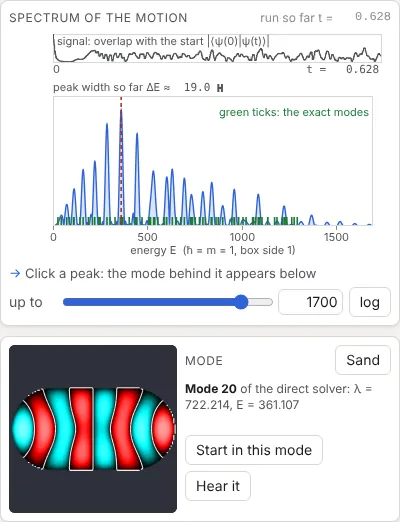
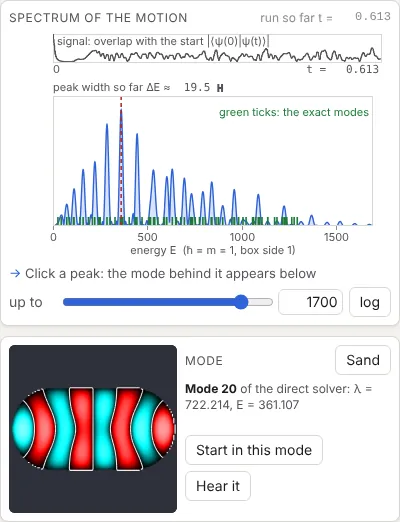
Drums: a nodal diameter does not silence a mode; the list's exact labels follow the grid's order
Experiment 2 said a strike on any nodal line of a mode silences it.  Measured: on mode 6's
nodal circle, (0, 2), its 611 Hz peak falls to 0.04% of the tallest; on mode 2's nodal
diameter, (1, 1), the 424 Hz peak stays the tallest, because its degenerate twin (sin
against cos, mode 3) has its crest there.  The help now says both, and the UI test checks
both numbers.

The list labelled the k-th grid eigenvalue with the k-th exact one.  Where two exact levels
lie closer than the grid's direction-dependent error they swap: the default 1 x 0.614
rectangle's modes 50/51 ((11, 1) and (9, 4)) and 55/56, and the half disc's 69/70 ((20, 1)
and (16, 2)).  Rectangles are now labelled from the 5-point Laplacian's own eigenvalues
(products of sines, with their (m, n)); discs by reading each mode's m off the mode (its
largest Fourier component round three rings) and counting k.  The circle's 80 labels were
right and stay so; a unit test feeds the swapped orders and checks the labels.

The circle's Bessel zeros (30-46 ms unthrottled) were found again on every step of the wave
speed slider and every time an exact mode was drawn; the labels are now kept with the modes
they label.  The billiard's |<psi(0)|psi(t)>| strip is drawn with the scope's smoothing off:
it is a magnitude with no carrier, and smoothing only thickened it and blurred the scar's
returns and the square's revival (the drum's displacement keeps the automatic smoothing).
[…]

Changed region(s): [[0.21, 0.092, 0.96, 0.1533], [0.51, 0.1533, 0.54, 0.1839]]

diff --git a/drums/shapes.js b/drums/shapes.js
@@ -121,6 +121,52 @@ function discSpectrum(R, lmax, half) {
   return out.sort((p, q) => p.lambda - q.lambda);
 }
 
+/**
+ * The exact labels of a disc's (or half disc's) first `count` grid modes, in the grid's order.
+ * Sorting the exact λ = (j_mk/R)² and the grid's eigenvalues side by side pairs them wrongly
+ * where two exact levels of different m lie closer than the grid's error, which depends on m
+ * (the half disc's (16, 2) and (20, 1) swap places at modes 69 and 70).  So each grid mode's m
+ * is read off the mode itself, as its largest Fourier component round rings about the centre
+ * (cos mθ and sin mθ; sin mθ alone for the half disc), and k by counting the modes of that m
+ * met so far (two per k for m ≥ 1 in the full disc).
+ *   field(k): mode k as a function (x, y) => value; values: the grid's eigenvalues (J_m has no
+ *   zero below m, so m < R√λ: only those m are tried).  Returns [{ lambda, label, m, k, j }].
+ */
+export function discLabels(R, y0, half, count, field, values) {
+  const zeros = new Map(), seen = new Map(), out = [], M = 128, MMAX = 40;
+  const rings = [0.55, 0.75, 0.9];
+  const th = Float64Array.from({ length: M }, (_, i) => (half ? (PI * (i + 0.5)) / M : (2 * PI * i) / M));
+  const cosT = Array.from({ length: MMAX + 1 }, (_, m) => th.map((t) => Math.cos(m * t)));
+  const sinT = Array.from({ length: MMAX + 1 }, (_, m) => th.map((t) => Math.sin(m * t)));
+  const v = new Float64Array(M);
+  for (let q = 0; q < count; q++) {
+    const f = field(q), power = new Float64Array(MMAX + 1), top = Math.min(MMAX, Math.floor(1.05 * R * Math.sqrt(values[q])) + 1);
+    for (const r of rings) {
+      for (let i = 0; i < M; i++) v[i] = f(r * R * Math.cos(th[i]), y0 + r * R * Math.sin(th[i]));
+      for (let m = 0; m <= top; m++) {
+        let c = 0, s = 0;
+        const C = cosT[m], S = sinT[m];
+        for (let i = 0; i < M; i++) { c += v[i] * C[i]; s += v[i] * S[i]; }
+        // (A pure a cos(mθ + φ) gives (aM/2)²; a constant a gives (aM)², so m = 0 counts a quarter.
+        // On the half disc only sin mθ, m ≥ 1, fits the straight edge.)
+        power[m] += half ? s * s : (c * c + s * s) * (m === 0 ? 0.25 : 1);
+      }
+    }
+    let best = half ? 1 : 0;
+    for (let m = best + 1; m <= top; m++) if (power[m] > power[best]) best = m;
+    const n = seen.get(best) || 0;
+    seen.set(best, n + 1);
+    out.push({ m: best, k: half || best === 0 ? n + 1 : Math.floor(n / 2) + 1 });
+  }
+  // The zeros, each m's at once (finding them is the slow part).
+  for (const e of out) zeros.set(e.m, Math.max(zeros.get(e.m) || 0, e.k));
+  for (const [m, kmax] of zeros) zeros.set(m, besselZeros(m, kmax));
+  return out.map(({ m, k }) => {
+    const j = zeros.get(m)[k - 1];
+    return { lambda: (j / R) ** 2, label: `(${half || m === 0 ? m : `±${m}`}, ${k})`, m, k, j };
+  });
+}
+
 /** Equilateral triangle of side s (Lamé): λ = (16π²/9s²)(m² + mn + n²), m, n ≥ 1. */
 function triangleSpectrum(s, lmax) {
   const out = [], c = (16 * PI * PI) / (9 * s * s);
@@ -179,6 +225,7 @@ export const PRESETS = {
         sdf: (x, y) => R - Math.hypot(x, y), area: PI * R * R, perimeter: 2 * PI * R, K: 1 / 6,
         outline: [arcPoints(0, 0, R, 0, 2 * PI, 160)],
         exact: (lmax) => discSpectrum(R, lmax, false),
+        exactInGridOrder: (count, field, values) => discLabels(R, 0, false, count, field, values),
         exactNote: 'λ = (jₘₖ/R)², jₘₖ the k-th zero of the Bessel function Jₘ; (m, k) with ±m for cos mθ and sin mθ',
       };
     },
@@ -194,6 +241,7 @@ export const PRESETS = {
         area: (PI * R * R) / 2, perimeter: PI * R + 2 * R, K: 1 / 8 + 1 / 12,
         outline: [[...arcPoints(0, y0, R, 0, PI, 100), [R, y0]]],
         exact: (lmax) => discSpectrum(R, lmax, true),
+        exactInGridOrder: (count, field, values) => discLabels(R, y0, true, count, field, values),
         exactNote: 'λ = (jₘₖ/R)² with m ≥ 1 only: the circle\'s modes sin mθ',
       };
     },
@@ -318,15 +366,23 @@ function rect(a, b, h) {
     exact: (lmax) => rectangleSpectrum(a, b, lmax),
     exactNote: 'λ = π²(m²/a² + n²/b²), a × b the sides',
     // The 5-point Laplacian's own eigenvalues for this rectangle: products of sines.
-    discrete: (count) => {
-      const Ma = Math.round(a / h) - 1, Mb = Math.round(b / h) - 1, out = [];
-      for (let m = 1; m <= Ma; m++) for (let k = 1; k <= Mb; k++) {
-        out.push((4 / (h * h)) * (Math.sin((m * PI * h) / (2 * a)) ** 2 + Math.sin((k * PI * h) / (2 * b)) ** 2));
-      }
-      return out.sort((p, q) => p - q).slice(0, count);
-    },
+    discrete: (count) => discreteRect(a, b, h, count).map((e) => e.grid),
+    // The exact modes in the grid's order, for labelling the solver's list: the grid lowers
+    // short waves by an amount that depends on their direction, and so can swap two close
+    // levels ((9, 4) and (11, 1) of the 1 × 0.614 rectangle).  Its own eigenvalues are known
+    // exactly here, with their (m, n), so each of the solver's modes gets its true label.
+    exactInGridOrder: (count) => discreteRect(a, b, h, count).map(({ m, k }) => ({ lambda: PI * PI * ((m * m) / (a * a) + (k * k) / (b * b)), label: `(${m}, ${k})` })),
     sides: [a, b],
   };
+}
+
+/** The 5-point Laplacian's lowest `count` eigenvalues for the rectangle a × b: { grid, m, k }. */
+function discreteRect(a, b, h, count) {
+  const Ma = Math.round(a / h) - 1, Mb = Math.round(b / h) - 1, out = [];
+  for (let m = 1; m <= Ma; m++) for (let k = 1; k <= Mb; k++) {
+    out.push({ grid: (4 / (h * h)) * (Math.sin((m * PI * h) / (2 * a)) ** 2 + Math.sin((k * PI * h) / (2 * b)) ** 2), m, k });
+  }
+  return out.sort((p, q) => p.grid - q.grid).slice(0, count);
 }
 
 function gwwDrum(which, l, h) {

diff --git a/tests/drums.test.js b/tests/drums.test.js
@@ -9,6 +9,7 @@ import { hearShape, spacings, weyl, gridCorrected } from '../drums/counting.js';
 import { synthesize } from '../drums/sound.js';
 import { Ray } from '../drums/ray.js';
 import { fft } from '../lib/fft.js';
+import { besselJ } from '../lib/bessel.js';
 
 const shape = (id, n, params = {}) => {
   const p = PRESETS[id], vals = Object.fromEntries(Object.entries(p.params).map(([k, v]) => [k, params[k] ?? v.value]));
@@ -83,6 +84,52 @@ test('drums: the circle converges to (j_mk/R)² (staircase edge: about first ord
   assert(errs[2] < errs[0] / 2.5, 'the error falls as the grid is refined');
   assert(errs[2] < 0.004, `finest grid within 0.4% (${errs[2]})`);
   return 'worst of the first 10: ' + notes.join(', ');
+});
+
+test('drums: the list\'s exact labels follow the grid\'s order (rectangle, discs), not the exact order', () => {
+  // The 1 × 0.614 rectangle at n = 128: the grid puts (11, 1) below (9, 4), though exactly
+  // (9, 4) is lower; the labels must follow the grid's own (m, n).
+  const n = 128, h = 1 / (n - 1), { geo } = shape('rectangle', n);
+  const lab = geo.exactInGridOrder(80), sorted = geo.exact(2500).slice(0, 80);
+  assert(lab[49].label === '(11, 1)' && lab[50].label === '(9, 4)' && sorted[49].label === '(9, 4)', `modes 50, 51: ${lab[49].label}, ${lab[50].label} (sorted exactly: ${sorted[49].label})`);
+  const disc = geo.discrete(80);
+  lab.forEach((e, k) => {
+    const [m, kk] = e.label.slice(1, -1).split(', ').map(Number);
+    const g = (4 / (h * h)) * (Math.sin((m * Math.PI * h) / 2) ** 2 + Math.sin((kk * Math.PI * h) / (2 * geo.sides[1])) ** 2);
+    close(g, disc[k], 1e-9 * g, `label ${e.label} is grid mode ${k + 1}'s own`);
+  });
+  // The discs: each mode's m is read from the mode itself, and k by counting.  On the n = 128
+  // grid the half disc's (16, 2) and (20, 1) swap places (modes 69 and 70): here the exact modes
+  // J_m(j_mk r/R) sin mθ are handed over in that order.  The full disc's pairs come as
+  // cos(mθ + φ) and sin(mθ + φ), φ odd (as the solver returns them), one pair split by another
+  // level; and the labels must be the same.
+  const exactMode = (m, j, R, y0, half, phase) => (x, y) => {
+    const Y = y - y0, r = Math.hypot(x, Y), th = Math.atan2(Y, x);
+    return r >= R || (half && Y < 0) ? 0 : besselJ(m, (j * r) / R)[m] * (half ? Math.sin(m * th) : Math.cos(m * th + phase));
+  };
+  const parse = (label) => label.replace('±', '').slice(1, -1).split(', ').map(Number);
+  {
+    const R = 0.49, hd = PRESETS.halfdisc.make({ R }, h), y0 = -0.5 + Math.round((0.5 - R / 2) / h) * h;
+    const list = hd.exact(3200).slice(0, 72);
+    const a = list.findIndex((e) => e.label === '(16, 2)'), b = list.findIndex((e) => e.label === '(20, 1)');
+    assert(b === a + 1, `exactly, (16, 2) is just below (20, 1): modes ${a + 1}, ${b + 1}`);
+    [list[a], list[b]] = [list[b], list[a]];
+    const fields = list.map((e) => { const [m] = parse(e.label); return exactMode(m, e.j, R, y0, true, 0); });
+    const got = hd.exactInGridOrder(list.length, (q) => fields[q], list.map((e) => e.lambda));
+    got.forEach((e, q) => assert(e.label === list[q].label && Math.abs(e.lambda / list[q].lambda - 1) < 1e-12, `half disc, mode ${q + 1}: ${e.label} for ${list[q].label}`));
+  }
+  {
+    const R = 0.48, c = PRESETS.circle.make({ R }, h), list = c.exact(1000).slice(0, 40);
+    // The pair (±2, 1) split by (0, 2)? Exactly, (0, 2) is above both: move one of them past it.
+    const i = list.findIndex((e) => e.label === '(±2, 1)'), z = list.findIndex((e) => e.label === '(0, 2)');
+    assert(z === i + 2, 'exactly, (0, 2) comes after the (±2, 1) pair');
+    [list[i + 1], list[z]] = [list[z], list[i + 1]];
+    const seen = new Map();
+    const fields = list.map((e) => { const [m] = parse(e.label), n = seen.get(e.label) || 0; seen.set(e.label, n + 1); return exactMode(m, e.j, R, 0, false, 0.37 + (n % 2 ? Math.PI / 2 : 0)); });
+    const got = c.exactInGridOrder(list.length, (q) => fields[q], list.map((e) => e.lambda));
+    got.forEach((e, q) => assert(e.label === list[q].label && Math.abs(e.lambda / list[q].lambda - 1) < 1e-12, `circle, mode ${q + 1}: ${e.label} for ${list[q].label}`));
+  }
+  return 'the rectangle\'s 80 by its own grid eigenvalues; 72 half-disc and 40 disc modes by their m';
 });
 
 test('drums: the equilateral triangle converges to (16π²/9s²)(m² + mn + n²)', () => {

diff --git a/drums/app.js b/drums/app.js
@@ -362,11 +362,30 @@ function exactField(k) {
   return f;
 }
 
-/** Labels of the exact modes from the shape's exactly known spectrum, if there is one. */
+/**
+ * Labels of the exact modes from the shape's exactly known spectrum, if there is one.  Kept with
+ * the modes they label: the circle's Bessel zeros take a while to find, and the list is drawn
+ * again on every step of the wave-speed slider.
+ */
+let labels = { modes: null, geo: null, list: null };
 function analyticLabels() {
   if (!modes || !geo.exact) return null;
-  const lmax = modes.values[modes.values.length - 1] * 1.25 + 50;
-  return geo.exact(lmax);
+  if (labels.modes !== modes || labels.geo !== geo) {
+    const lmax = modes.values[modes.values.length - 1] * 1.25 + 50;
+    labels = { modes, geo, list: geo.exactInGridOrder ? geo.exactInGridOrder(Math.min(modes.values.length, modes.nvec), modeFunction, modes.values) : geo.exact(lmax) };
+  }
+  return labels.list;
+}
+
+/** Exact mode k as a function of (x, y), bilinear between the grid points (zero outside). */
+function modeFunction(k) {
+  const f = exactField(k), n = state.n, h = grid.h;
+  return (x, y) => {
+    const u = (x + 0.5) / h, v = (y + 0.5) / h, i = Math.floor(u), j = Math.floor(v);
+    if (!f || i < 0 || j < 0 || i >= n - 1 || j >= n - 1) return 0;
+    const s = u - i, t = v - j, g = j * n + i;
+    return (1 - s) * (1 - t) * f[g] + s * (1 - t) * f[g + 1] + (1 - s) * t * f[g + n] + s * t * f[g + n + 1];
+  };
 }
 
 // ------------------------------------------------------------------ sound
@@ -663,7 +682,10 @@ function drawSignal() {
   // them (lib/scope.js).  The picture is kept while the signal holds still (paused, or full).
   const { re, im } = signal, q = isQ(), still = !state.running || K >= SIGNAL_MAX;
   const y = q ? (k) => top + h - (Math.sqrt(re[k] * re[k] + im[k] * im[k]) / mx) * h : (k) => top + h / 2 - (re[k] / mx) * (h / 2);
-  scopeTrace(ctx, { left, top, w, h }, { n: K, y, x0: left, x1: left + w, color: c.ink2, key: still ? `drums signal ${signalCount} ${K} ${q}` : undefined });
+  // The billiard's |overlap| is a magnitude, with no carrier under it: its sample-to-sample
+  // ripple is not a band to smooth, and smoothing it only thickens the line and blurs the
+  // returns (a scar's, the square's revival).  The drum's displacement is a band of cycles.
+  scopeTrace(ctx, { left, top, w, h }, { n: K, y, x0: left, x1: left + w, color: c.ink2, smooth: q ? false : undefined, key: still ? `drums signal ${signalCount} ${K} ${q}` : undefined });
   ctx.fillStyle = c.ink2; ctx.font = '11px system-ui, sans-serif';
   ctx.fillText(isQ() ? 'signal: overlap with the start |⟨ψ(0)|ψ(t)⟩|' : 'signal: the membrane under the mallet', left + 4, top + 11);
   ctx.fillText('0', left, height - 3);

diff --git a/drums/index.html b/drums/index.html
@@ -138,7 +138,7 @@
   <section class="start">
     <h3>Start here</h3>
     <p>A drum.  Strike it and it rings in its <b>modes</b>, each a fixed pattern swinging at its own
-    frequency; the picture is the membrane (red up, cyan down), slowed down a few hundred times.
+    frequency; the picture is the membrane (red up, cyan down), slowed down about 170 times.
     The <b>spectrum</b> beside it is built from the motion as it goes on, and grows a peak at every
     mode.</p>
     <p><b>Click the drum</b> to strike it somewhere else (you hear it too).  <b>Click a peak</b> of
@@ -167,8 +167,14 @@
     <p>The same drum struck dead centre.  It rings only in its modes with $m=0$, the ones that are
     round (every other mode has a nodal line through the centre, so a mallet there cannot move it):
     few peaks, a hollow sound.  Now click near the edge: many more modes, a brighter, more rattling
-    sound.  Click on a nodal line of a mode (see the Mode panel) and that mode drops out of the
-    spectrum.</p>
+    sound.</p>
+    <p>Then click mode 6 in the list, $(0,2)$: round, with one nodal circle inside the rim, at
+    0.44 of the radius.  Strike the drum on that circle and its peak, near 611 Hz, drops out of
+    the spectrum: a mallet on a node cannot move that mode.  A nodal <em>diameter</em> does not do
+    the same.  Click mode 2, $(\pm1,1)$, and strike on its nodal line: the peak near 424 Hz stays.
+    Every mode with $m\ge1$ has a twin of the same frequency ($\sin m\theta$ beside
+    $\cos m\theta$, mode 3 beside mode 2) whose crest lies on that line, and the twin rings
+    instead.</p>
   </article>
 
   <article class="exp" data-setup="square" data-frame="400x508">

diff --git a/tests/ui/drums.py b/tests/ui/drums.py
@@ -8,7 +8,7 @@ change.
 
 The machine running this may be heavily loaded: every wait polls with a generous cap, and a step
 that times out or meets a page that is not ready fails with a message rather than a traceback."""
-import os, re, sys, time, traceback
+import math, os, re, sys, time, traceback
 sys.path.insert(0, os.path.join(os.path.dirname(__file__), '..', '..', 'tools'))
 from cdp import Browser
 
@@ -254,6 +254,27 @@ with Browser('drums/index.html', size=(1400, 900)) as b:
           return { n: strong.length, worst: Math.max(...off) }; })()""")
         check(r['n'] >= 2 and r['worst'] < 0.01, f"struck in the middle, the circle's strong peaks are all m = 0 modes (j₀ₖ): {r['n']} peaks, worst {100 * r['worst']:.2f}% off")
         b.screenshot('build/drums-exp-strike.png')
+        # The help: struck on the nodal circle of mode 6, (0, 2), its peak near 611 Hz drops out;
+        # struck on the nodal line of mode 2, (1, 1), the peak near 424 Hz stays (its twin, mode 3, rings).
+        GRIDMODE = """((k) => { const a = __app, m = a.modes, N = m.N, f = new Float64Array(a.grid.n * a.grid.n);
+            for (let p = 0; p < N; p++) f[m.pts[p]] = m.vectors[k * N + p]; return f; })"""
+        PEAK = """((f) => { const s = __app.computeSpectrum(); let best = 0, top = 0;
+            for (let j = 0; j < s.x.length; j++) { top = Math.max(top, s.amp[j]); if (Math.abs(s.x[j] - f) < 6) best = Math.max(best, s.amp[j]); } return best / top; })"""
+        geo = b.eval(f"""(() => {{ const a = __app, n = a.grid.n, h = a.grid.h, f6 = {GRIDMODE}(5), f2 = {GRIDMODE}(1), j = Math.round(0.5 / h);
+            let r0 = null, prev = null;
+            for (let i = j; i < n && r0 === null; i++) {{ const v = f6[j * n + i]; if (prev !== null && prev * v < 0) r0 = -0.5 + (i - 1 + prev / (prev - v)) * h; prev = v; }}
+            let sx = 0, sy = 0; for (const g of a.grid.inner) {{ const i = g % n, jj = (g - i) / n; sx += f2[g] * (-0.5 + i * h); sy += f2[g] * (-0.5 + jj * h); }}
+            return {{ r0, line: Math.atan2(sy, sx) + Math.PI / 2, f6: a.xOf(a.modes.values[5]), f2: a.xOf(a.modes.values[1]) }}; }})()""")
+        b.eval('__app.state.fast = true')
+        res = []
+        for x, y, f in ((geo['r0'], 0, geo['f6']), (0.25 * math.cos(geo['line']), 0.25 * math.sin(geo['line']), geo['f2'])):
+            b.eval(f'__app.state.strike = {{ x: {x}, y: {y} }}; __app.state.start = "strike"; __app.restart()')
+            check(wait_for(b, '__app.signal && __app.signal.T > 60', 600), 'strike: the run reaches t = 60')
+            res.append(b.eval(f'{PEAK}({f})'))
+        b.eval('__app.state.fast = false')
+        check(abs(geo['r0'] / 0.48 - 0.4356) < 0.01 and abs(geo['f6'] - 611) < 2 and res[0] < 0.01 and res[1] > 0.5,
+              f"struck on mode 6's nodal circle (r = {geo['r0'] / 0.48:.3f} R; help: 0.44) its peak at {geo['f6']:.1f} Hz falls to {100 * res[0]:.2f}% of the tallest; "
+              f"struck on mode 2's nodal line, the peak at {geo['f2']:.1f} Hz is still {100 * res[1]:.0f}% of the tallest (help: near 611 and 424 Hz)")
 
     # 9, 11, 12. Counting: Weyl's law, Poisson, Wigner.
     for name, shape in (('weyl', 'sinai8'), ('poisson', 'rectangle'), ('wigner', 'qstadium')):
